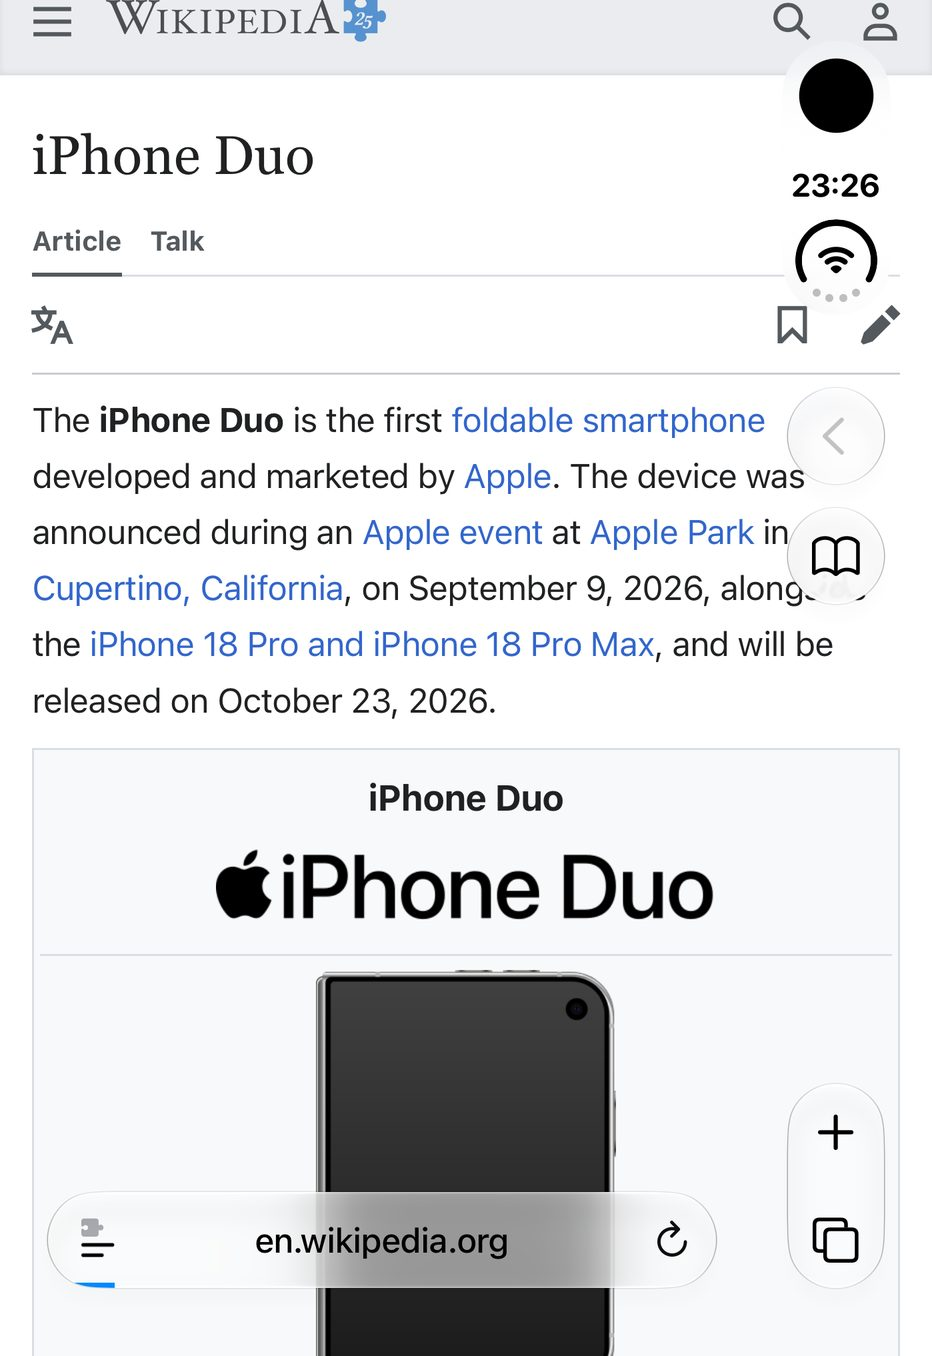
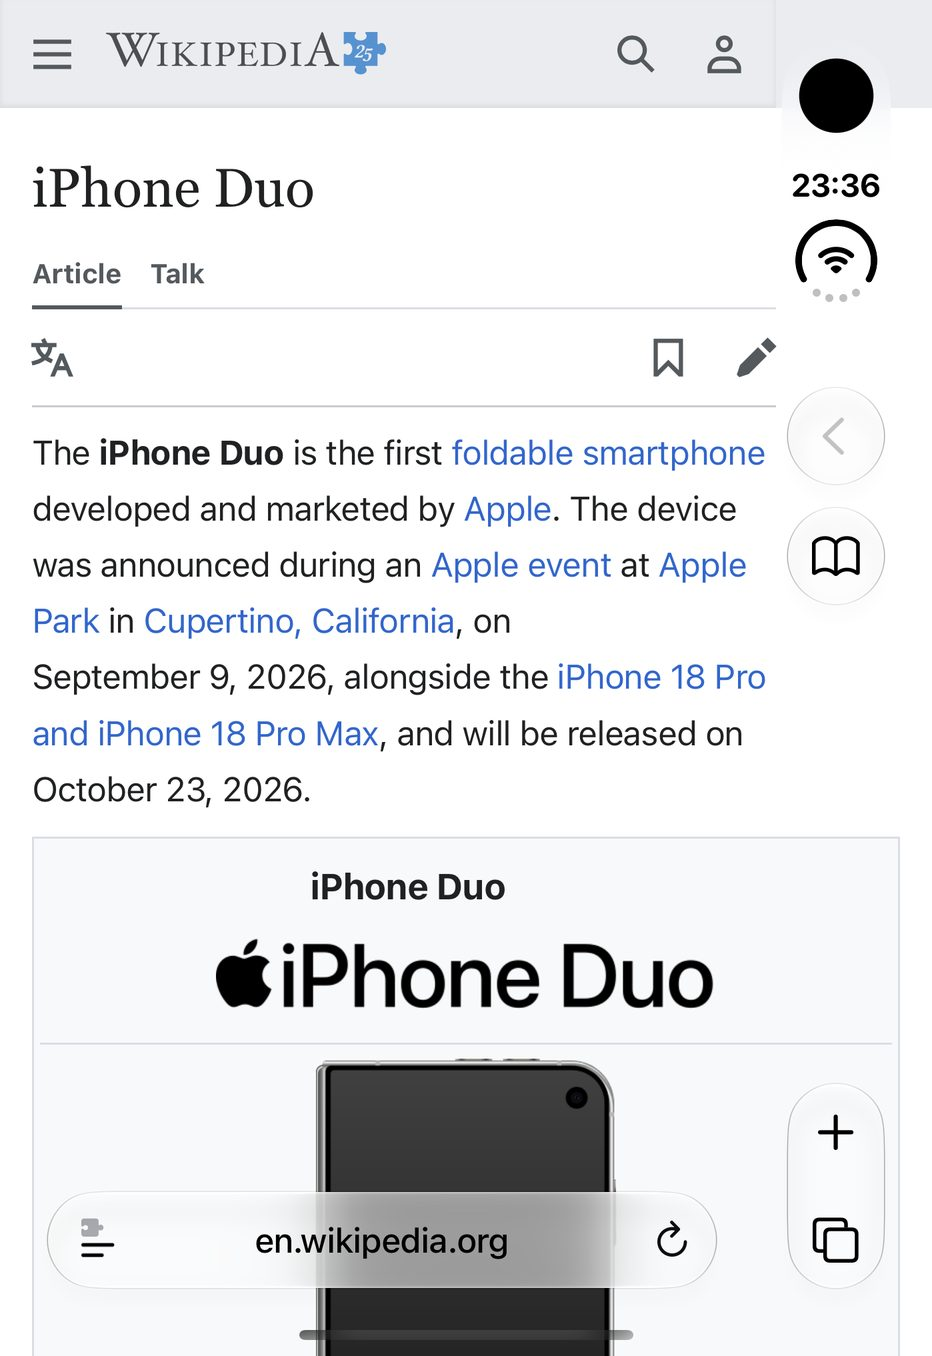
Real screenshots retaken with Widen 0.1 (9): words clear of Safari's buttons

diff --git a/index.html b/index.html
@@ -49,26 +49,24 @@
   </div>
 </header>
 
-<!-- Real screenshots: retake once the app keeps text clear of Safari's buttons, then remove "hidden".
-<section id="real" hidden>
+<section id="real">
   <div class="wrap">
     <span class="kicker">On a real page</span>
     <h2>Wikipedia&rsquo;s iPhone Duo article, folded</h2>
-    <p class="intro">Same page, same spot, one tap apart. Look at the right-hand edge.</p>
+    <p class="intro">Same page, same spot, one tap apart. Watch the right-hand side: the info box opens out to the edge, and the words still stop before Safari&rsquo;s buttons.</p>
     <div class="shots">
       <figure>
         <img src="img/before.jpg" width="932" height="1356" loading="lazy" alt="Wikipedia's iPhone Duo article in Safari on the Duo's outer display, without Widen: the text wraps early and a white band runs down beside Safari's buttons">
-        <figcaption><b>Safari alone</b>Lines wrap early; the strip by the buttons is blank.</figcaption>
+        <figcaption><b>Safari alone</b>Everything stops short; the strip by the buttons is blank.</figcaption>
       </figure>
       <figure>
         <img src="img/after.jpg" width="932" height="1356" loading="lazy" alt="The same article with Widen: lines run under Safari's see-through buttons to the edge of the display">
-        <figcaption><b>With Widen</b>Lines run to the edge; Safari&rsquo;s buttons float on top.</figcaption>
+        <figcaption><b>With Widen</b>The box fills the width; no word sits behind a button.</figcaption>
       </figure>
     </div>
-    <p class="credit">Screenshots from the iPhone Duo simulator. Article text from Wikipedia, CC BY-SA 4.0.</p>
+    <p class="credit">Screenshots from the iPhone Duo simulator, Widen 0.1 (9). Article text from Wikipedia, CC BY-SA 4.0.</p>
   </div>
 </section>
--->
 
 <section class="band" id="closer">
   <div class="wrap closer">
@@ -78,7 +76,7 @@
       <h2>Wider, without the side effects</h2>
       <p class="intro">Stretching a page is the easy part. Widen spends most of its effort on what happens next.</p>
       <ol class="notes">
-        <li><b>Pictures reach the edge; words don&rsquo;t.</b> Photos, maps, tables and backgrounds fill the full width behind Safari&rsquo;s see-through buttons. Text stops short of them, so nothing you&rsquo;re reading ends up behind a button.</li>
+        <li><b>Pictures reach the edge; words don&rsquo;t.</b> Photos, maps, tables and backgrounds fill the full width behind Safari&rsquo;s see-through buttons. Text stops short of them, so nothing you&rsquo;re reading ends up behind a button. (Prefer every line full width? One switch in the panel turns this off.)</li>
         <li><b>The camera keeps its corner.</b> A site&rsquo;s own top bar is kept just short of the column, so its menu and search buttons never end up behind the lens.</li>
         <li><b>Your thumb only scrolls up and down.</b> A page wider than the window would normally wobble left and right; Widen holds it steady. Pinch-zoom is untouched.</li>
       </ol>
